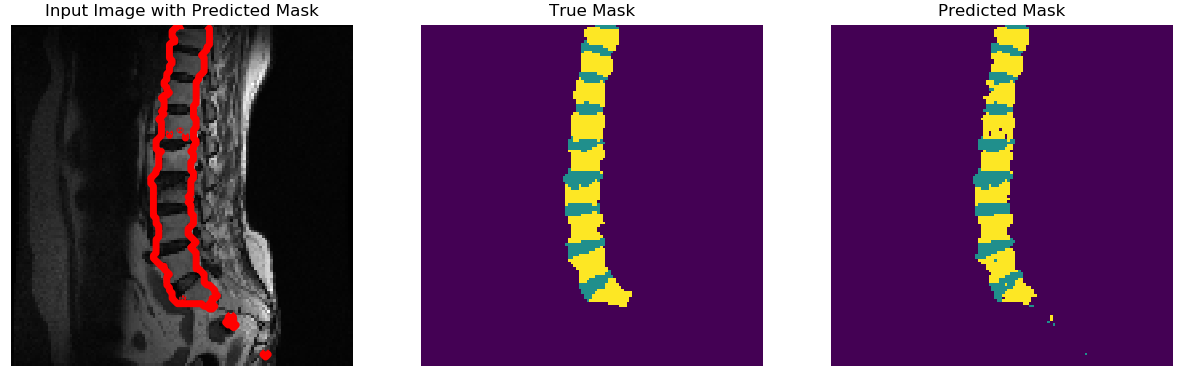
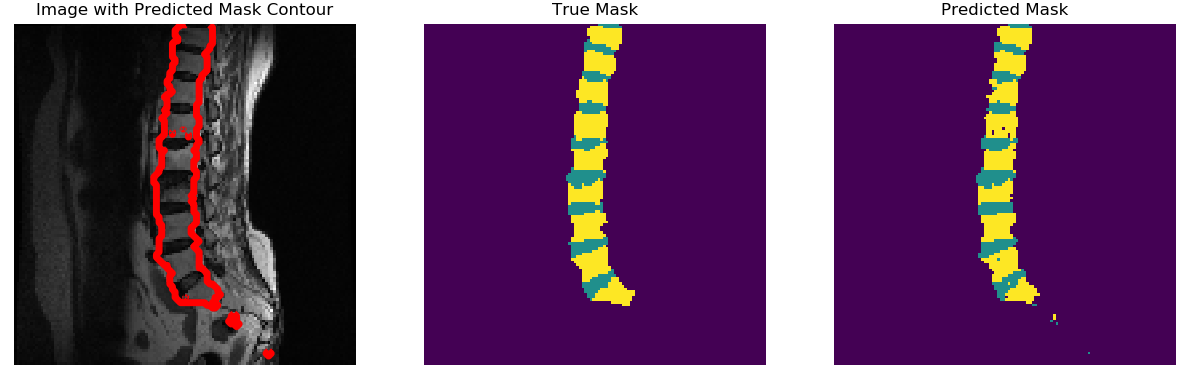
updated_img

diff --git a/utils/helper_fn.py b/utils/helper_fn.py
@@ -15,7 +15,7 @@ def create_mask(pred_mask):
 # Helper function to display data
 def display(display_list):
     fig, (ax1,ax2,ax3) = plt.subplots(1,3, figsize=(15,5))
-    title = ['Input Image with Predicted Mask', 'True Mask', 'Predicted Mask']
+    title = ['Image with Predicted Mask Contour', 'True Mask', 'Predicted Mask']
     ax1.imshow(tf.keras.preprocessing.image.array_to_img(display_list[0]))
     ax1.set_title(title[0])
     ax1.axis('off')
